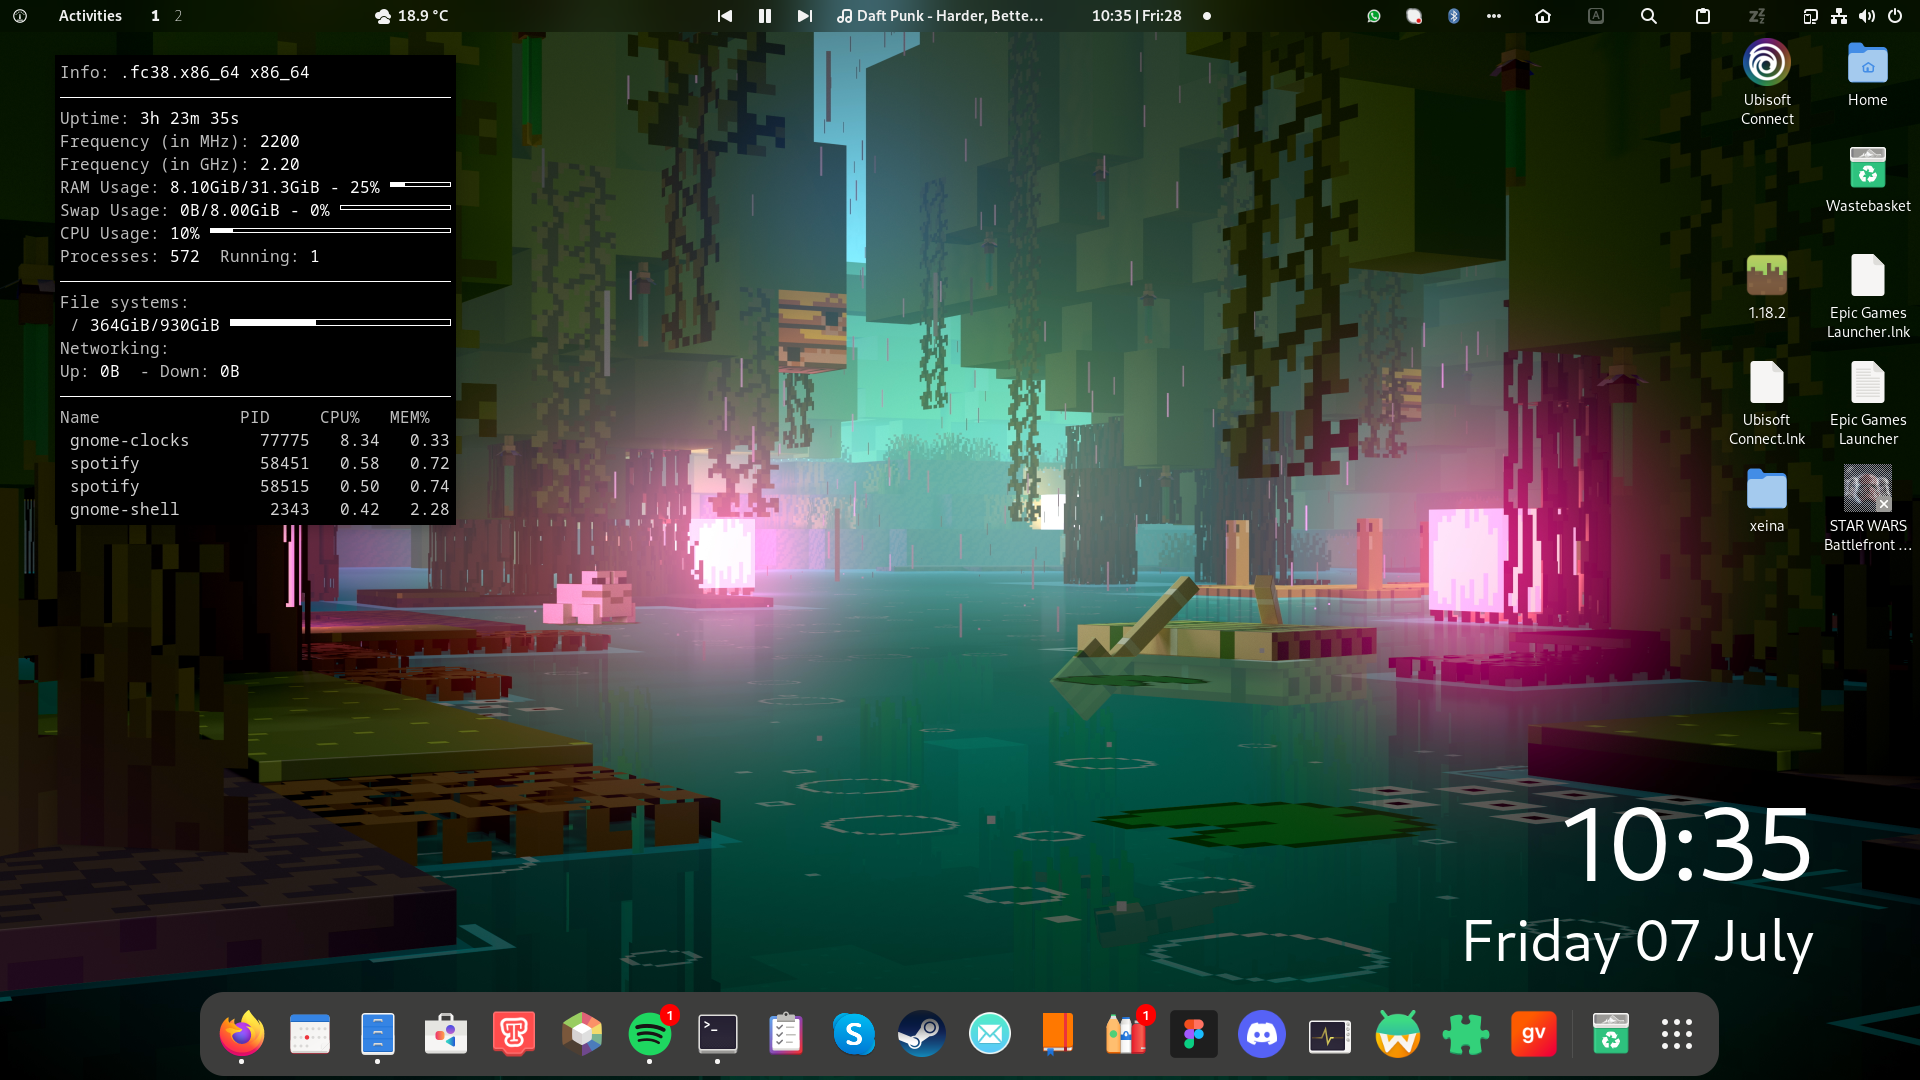
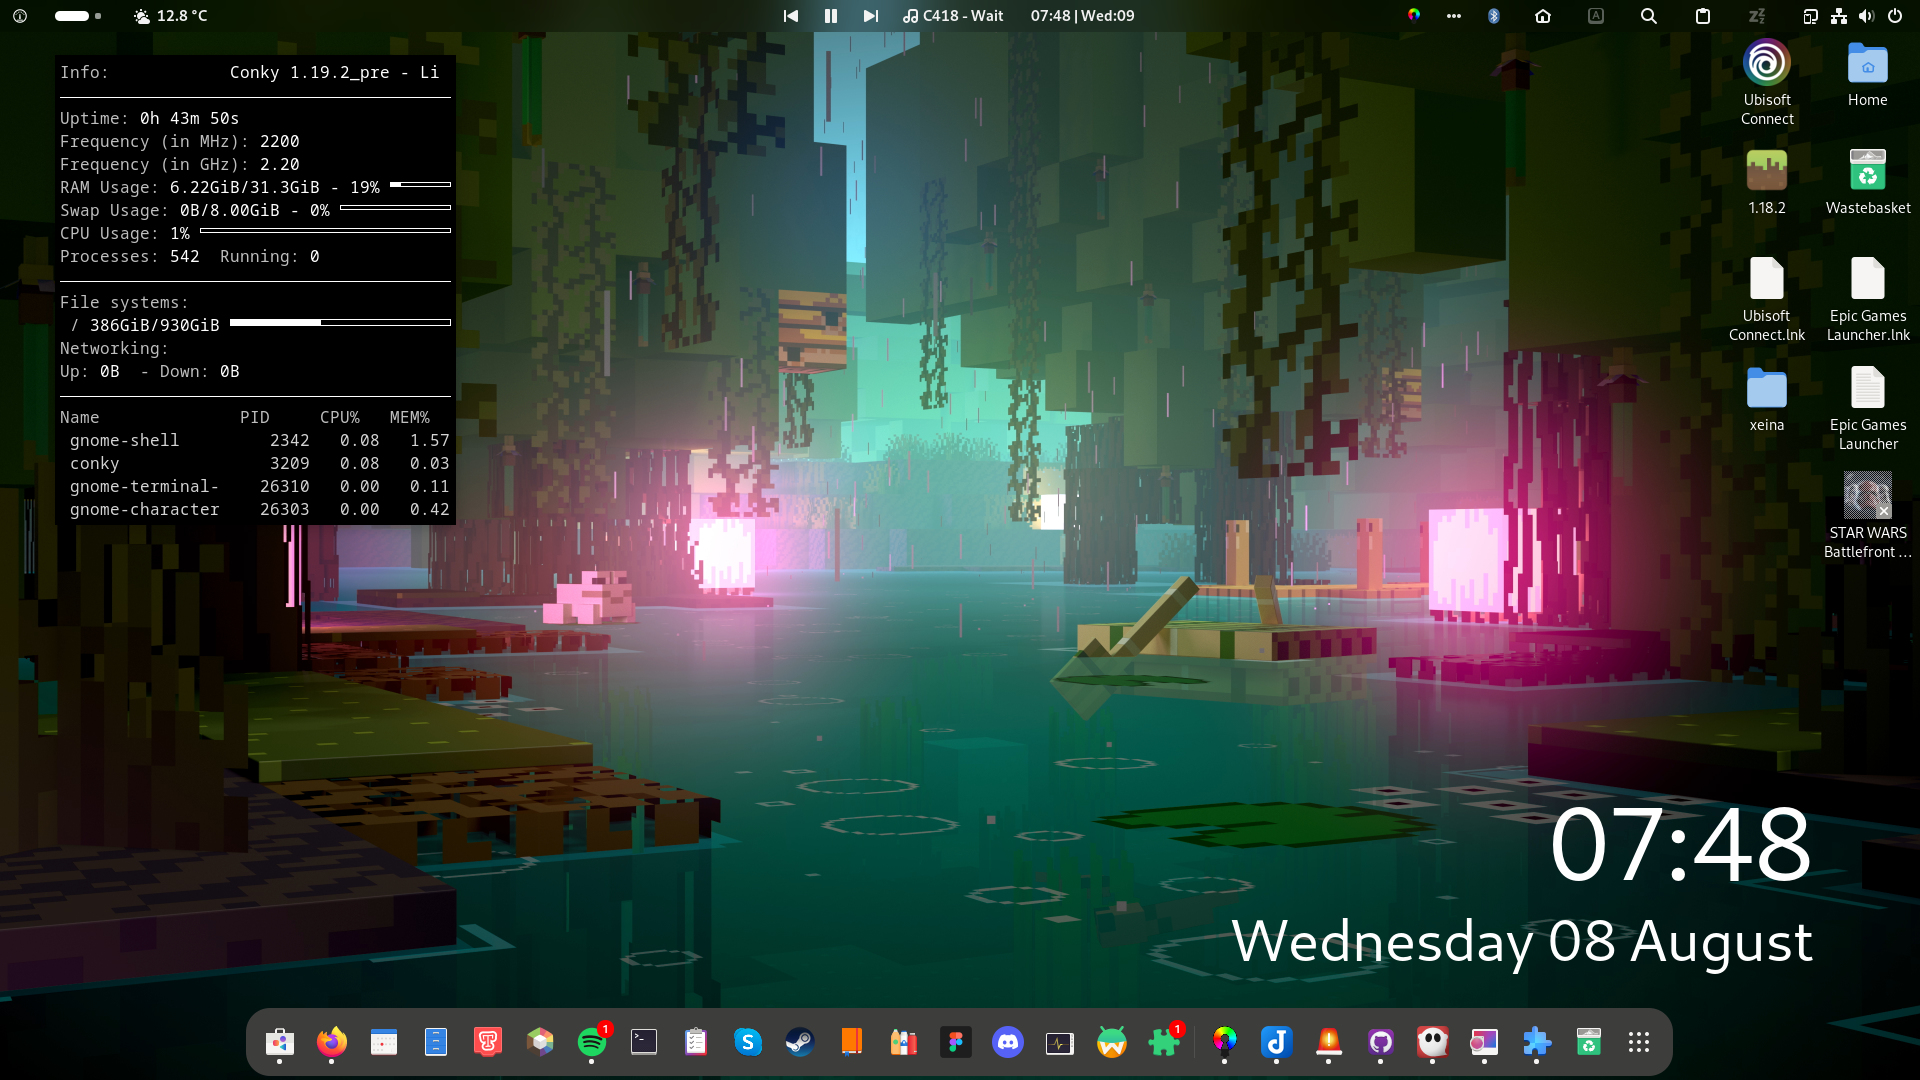
updated screenshot, added gnome extensions to readme

diff --git a/README.md b/README.md
@@ -5,3 +5,25 @@
  
 ![Gnome 44](https://github.com/RobotDaniel/dotfiles/assets/101746899/294c5bae-e807-4a9b-9260-cc98221b38f3)
 
+## Gnome extensions
+- Activites Filled Pill
+- Awesome Tiles
+- Aylur's Widgets
+- Bedtime Mode
+- Blur My Shell
+- Burn My windows
+	- glide effect
+- caffeine
+- clipboard indicator
+- Dash to dock
+- Desktop Icons NG (DING)
+- GSConnect
+- Lock Keys
+- OpenWeather
+- Removeable Drive Menu
+- Rounded Window Corners
+- Search Light
+- Show Desktop Button
+- Task Widget
+- Tiling Assistant
+- AppIndicator and KstatusNotifieritem Support
